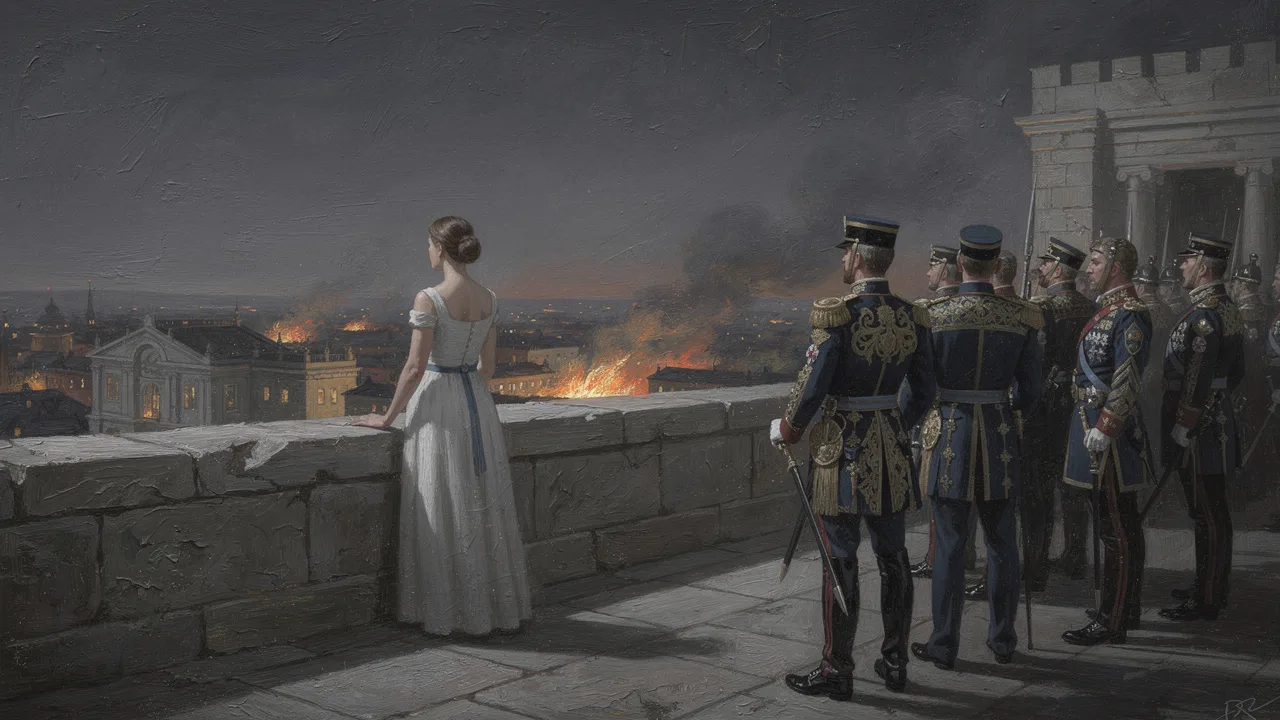
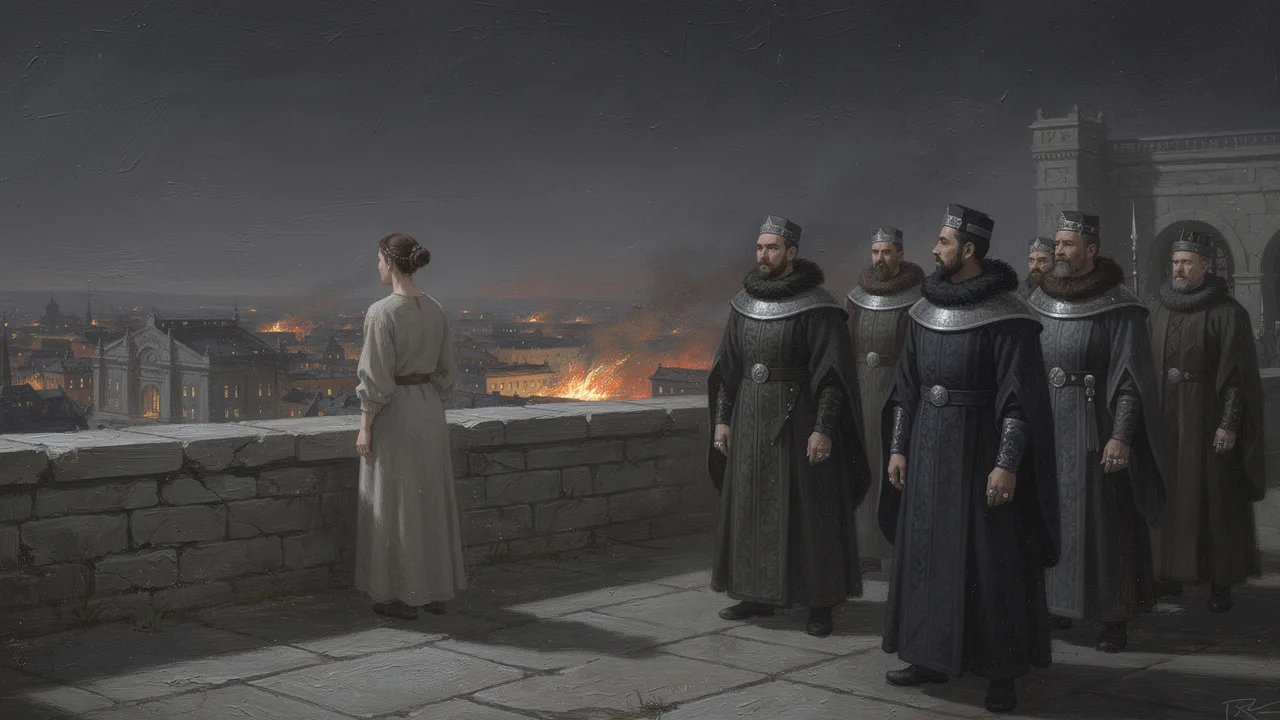
art: bei zwei Figuren die Anzahl vorweg nennen
Ursache: "a woman ... looks at a boy" plus das Blatt `paranChild` ergab
EINE Figur. Die Frau fehlte im Bild, der Junge trug ihr bodenlanges
Kleid. Ein Figurenblatt haengt als eigener Satz hinten dran und traegt
keine Zuordnung — das Modell hat dann eine sehr detaillierte
Beschreibung und einen Nebensatz und entscheidet sich fuer die
detaillierte. Kostete 4,5 Credits.

Fix: Anzahl am Satzanfang, je ein ausschliessendes Merkmal pro Figur
(bodenlang gegen kurz guertelnd), raeumliche Beziehung ausgeschrieben.
Dieselbe Konstruktion praeventiv in b1.c01.s07.p02 korrigiert, bevor
Block 2 sie bezahlt.

Ausserdem dokumentiert, warum zwei bekannte Regelverstoesse stehen
bleiben: die Verneinung in der Palette hoods-grey (12 Bilder belegen,
dass sie nicht schadet; Aenderung entwertet 22 Prompts) und "noble boy"
im Blatt paranChild (9 bezahlte Bilder sitzen).

Erkenntnis im Skill flux-bildgenerierung ergaenzt.

diff --git a/src/content/art/b1/c00.ts b/src/content/art/b1/c00.ts
@@ -140,16 +140,24 @@ export const art00: ArtPrompt[] = [
   },
   {
     id: `${C}.s05.p02`,
-    subject: 'on a bare stone terrace at night, a woman in plain undecorated clothing turns from the parapet '
-      + 'and looks directly at a boy standing where he does not belong',
+    // Zwei Fassungen sind hier bezahlt worden, beide aus Formulierungsfehlern:
+    //
+    // 1. "wearing nothing at all" war als "traegt keinen Schmuck" gemeint und
+    //    wurde als `Request Moderated` abgelehnt — im selben Prompt steht ein
+    //    zwoelfjaehriger Junge. Was fuer einen Leser eindeutig ist, ist es fuer
+    //    einen Klassifizierer nicht.
+    // 2. "a woman ... looks at a boy" plus das Blatt `paranChild` ergab EINE
+    //    Figur: Die Frau fehlte, der Junge trug ihr Kleid. Ein Blatt haengt als
+    //    eigener Satz hinten dran und traegt keine Zuordnung — bei zwei Figuren
+    //    muss der Satz selbst sagen, wie viele Personen im Bild stehen und
+    //    woran man sie auseinanderhaelt.
+    subject: 'two people stand facing each other on a bare stone terrace at night, several paces apart: '
+      + 'a grown woman in plain undyed floor-length clothing with her back to the parapet, looking down at the second person, '
+      + 'and a twelve-year-old boy in a short belted tunic and breeches, looking up at her',
     characters: ['paranChild'],
-    // "wearing nothing at all" war als "traegt keinen Schmuck" gemeint und wurde
-    // vom Moderationsfilter als Request Moderated abgelehnt — im selben Prompt
-    // steht ein zwoelfjaehriger Junge. Eine Redewendung, die fuer einen Leser
-    // eindeutig ist, ist es fuer einen Klassifizierer nicht.
     station: ['imperialCourt'],
-    detail: 'behind her the court officials stand in a close group, every one of them looking away; '
-      + 'she is the plainest figure in the frame',
+    detail: 'further back the court officials stand in a close group, every one of them looking away; '
+      + 'the woman and the boy are the two plainest figures in the frame',
     mood: 'council', palette: 'hoods-grey', tier: 'standard',
   },
   {

diff --git a/tests/content/art.test.ts b/tests/content/art.test.ts
@@ -97,6 +97,13 @@ describe('Prompt-Vorlage', () => {
 
   // Rang wird als Material und Machart beschrieben, nie als Etikett. Wer
   // "ornamented officials" schreibt, laesst das Modell den Rest erfinden.
+  //
+  // Geprueft werden bewusst nur `subject` und `detail`, nicht die Blaetter:
+  // `paranChild` beginnt mit "a twelve-year-old noble boy" und ist damit formal
+  // ein Verstoss — aber der Rest des Blattes ist konkret, und die neun bereits
+  // erzeugten Bilder mit dieser Figur sitzen. Das Blatt zu schaerfen wuerde
+  // 11 Prompts und 9 bezahlte Bilder entwerten, um ein Problem zu beheben, das
+  // nachweislich keines ist.
   it('kein Prompt benennt Rang abstrakt statt ihn zu beschreiben', () => {
     const vague = /\b(ornamented|richly dressed|finely dressed|in finery|nobles?|aristocrats?|dignitar\w+)\b/i
     const bad = artPrompts

diff --git a/src/content/art/b1/c01.ts b/src/content/art/b1/c01.ts
@@ -140,7 +140,11 @@ export const art01: ArtPrompt[] = [
   },
   {
     id: `${C}.s07.p02`,
-    subject: 'a woman in black leathers and a young officer standing over the same body, looking at different things',
+    // Zwei Figuren, nur eine mit Blatt: dieselbe Konstruktion hat in
+    // `b1.c00.s05.p02` die zweite Person verschluckt. Deshalb hier die Anzahl
+    // vorweg und je ein eindeutiges Merkmal.
+    subject: 'two people stand over the same body, one on each side of it, looking at different things: '
+      + 'a woman in black leathers, and a much younger officer a head taller than her',
     characters: ['lorn'],
     station: ['imperialCommand'],
     mood: 'aftermath', palette: 'hoods-grey', tier: 'standard',

diff --git a/src/content/art/style.ts b/src/content/art/style.ts
@@ -87,6 +87,12 @@ export const PALETTES: Record<PaletteId, Palette> = {
   'hoods-grey': {
     id: 'hoods-grey',
     colours: ['#191B1D', '#3C4245', '#6E7679', '#9BA2A4'],
+    // ⚠ `no warmth at all` ist eine Verneinung und verstoesst gegen die Regel,
+    // die den Anker formt. Sie bleibt trotzdem stehen: 12 erzeugte Bilder mit
+    // dieser Palette sind durchgehend kalt und grau geworden (01.08.2026), die
+    // Verneinung schadet hier also nachweislich nicht. Und jede Aenderung an
+    // einem Palettensatz entwertet ALLE Bilder, die ihn tragen — 22 Prompts.
+    // Beleg schlaegt Regel. Nicht "aufraeumen".
     phrase: 'palette of flat grey, no warmth at all',
   },
 }
